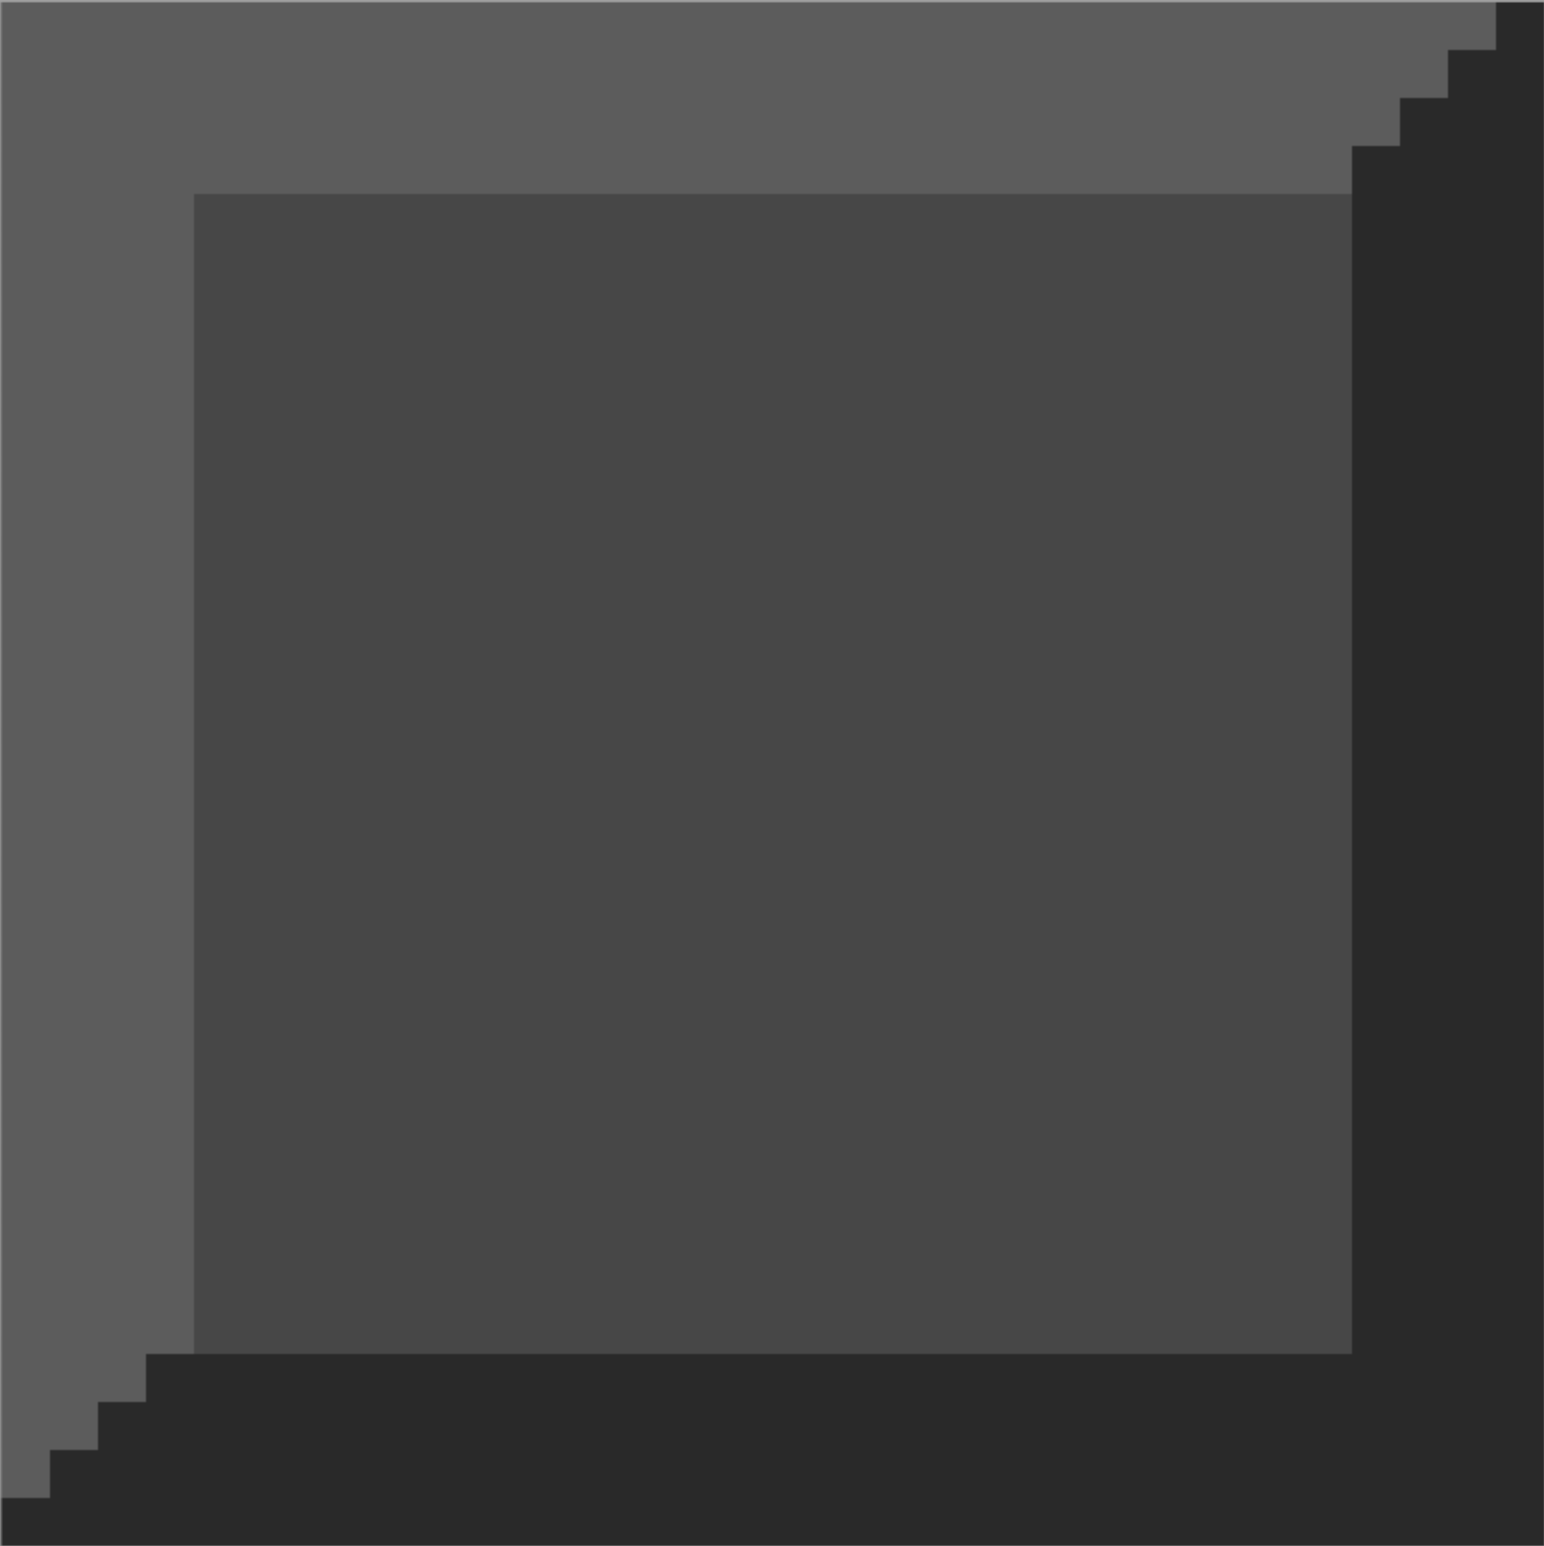
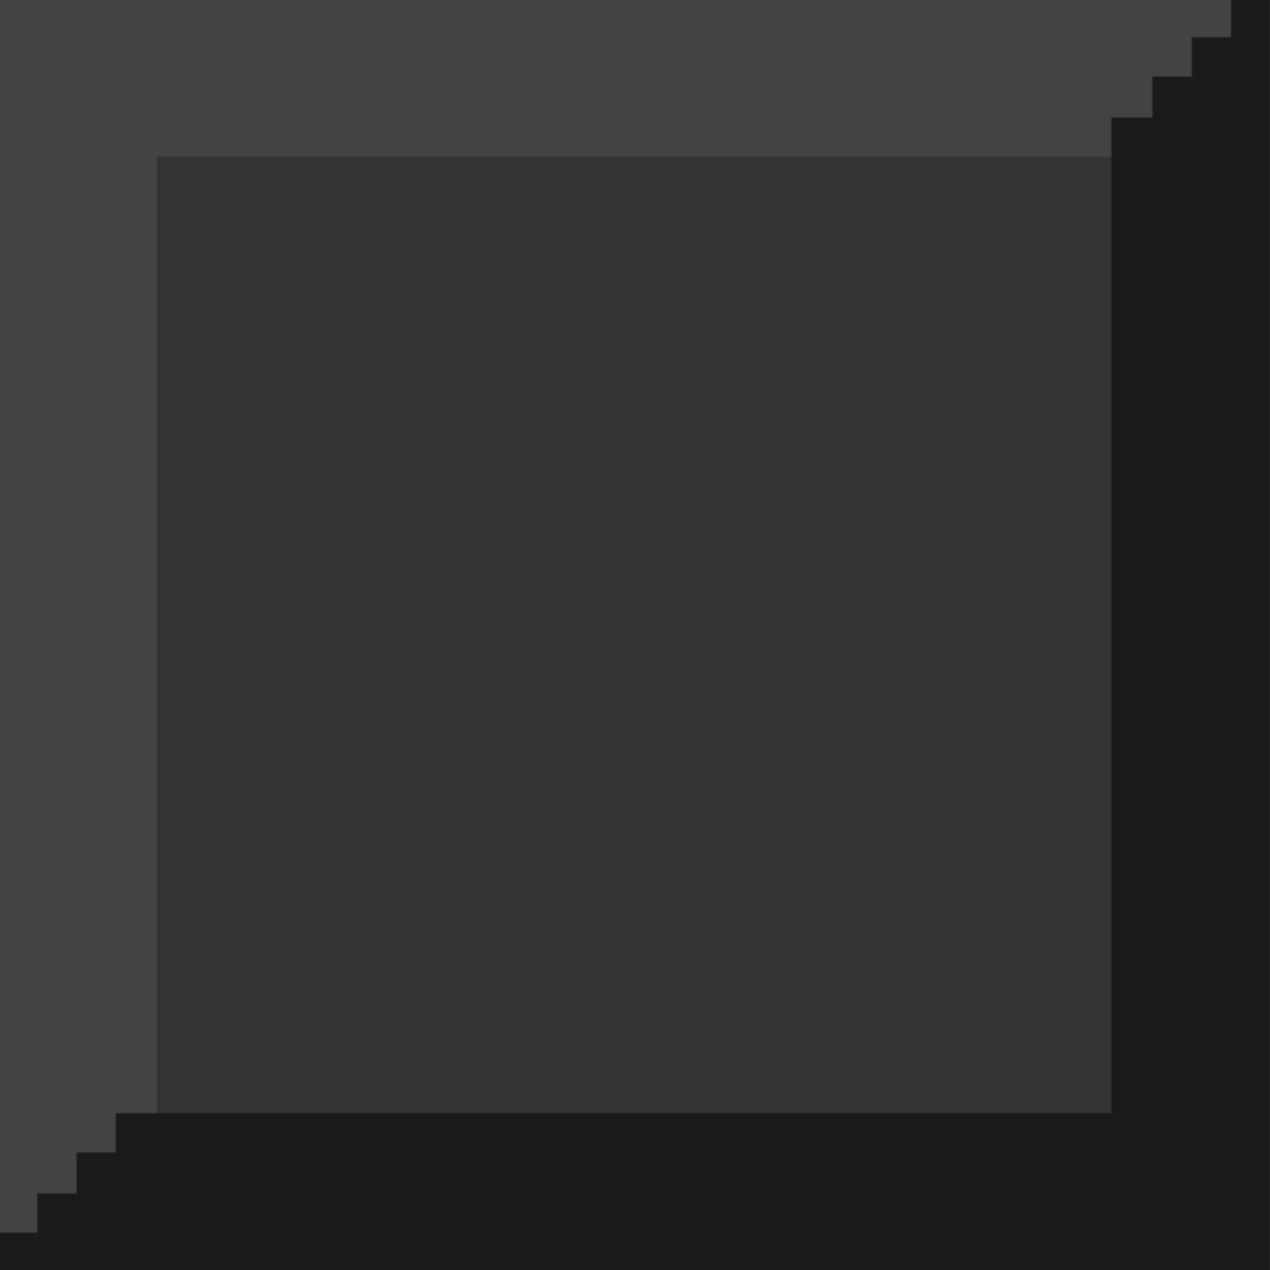
added some EXTREMELY buggy row clearing and fixed the remaining images

Changed region(s): [[0.0, 0.0, 0.9827, 0.9827]]

diff --git a/classes.py b/classes.py
@@ -9,6 +9,7 @@ class Player:
         self.score = 0
         self.blocks = []
         self.upNext = []
+        self.tiles = []
 
 class Text:
     def __init__(self, x, y, text, size, font, color):
@@ -110,7 +111,7 @@ class Block:
         keys = pygame.key.get_pressed()
         if self.aTick < 5:
             self.aTick += 1
-        if self.rTick < 5:
+        if self.rTick < 50:
             self.rTick += 1
 
         if keys[pygame.K_DOWN] and not self.top_collisions(tiles, player) and not self.stationary:
@@ -130,10 +131,12 @@ class Block:
                 self.x -= tileSize
                 self.aTick = 0
 
-        if keys[pygame.K_UP]:
-            if self.rTick % 5 == 0:
-                for block in self.blocks:
-                    block.rotate(self.x, self.y)
+        for event in pygame.event.get():
+            if event.type == pygame.KEYDOWN:
+                if event.key == pygame.K_UP and self.type != 'yellow':
+                    for block in self.blocks:
+                        block.rotate(self.x, self.y)
+                        self.rTick = 0
 
     def draw(self, screen):
         for block in self.blocks:
@@ -181,11 +184,14 @@ class Block:
         self.tick += 1
 
 class Tile:
-    def __init__(self, x, y, type):
+    def __init__(self, x, y, row, type):
+        self.row = row
         self.x = x
         self.y = y
         self.size = tileSize
         self.type = type
+        self.occupiedImage = Image(x, y, 'redTile.png')
+        self.occupied = False
 
         if type == 'bg':
             self.image = pygame.image.load('bgTile.png')
@@ -198,5 +204,24 @@ class Tile:
     def draw(self, screen):
         screen.blit(self.image, (self.x, self.y))
 
-    def update(self, screen):
+    def update(self, screen, blocks, tiles):
         self.draw(screen)
+        self.occupied = False
+        for block in blocks:
+            for image in block.blocks:
+                if image.x == self.x and image.y == self.y:
+                    self.occupied = True
+                    self.occupiedImage = image
+
+        for row in tiles:
+            numTilesOcupied = 0
+            for tile in row:
+                if tile.occupied:
+                    numTilesOcupied += 1
+            print(numTilesOcupied, len(row))
+            if numTilesOcupied == len(row) - 2:
+                print('cleared!')
+                self.occupiedImage.x = 62789
+
+
+

diff --git a/client.py b/client.py
@@ -8,16 +8,14 @@ win = pygame.display.set_mode((1000, 700))
 
 player = Player()
 
-tiles = []
-
 for j in range(22):
     row = []
     for i in range(18):
         if j == 0 or j == 21 or i == 0 or i == 17:
-            row.append(Tile(130+ tileSize*i, 40+ tileSize*j, 'wall'))
+            row.append(Tile(130+ tileSize*i, 40+ tileSize*j, j, 'wall'))
         else:
-            row.append(Tile(130 + tileSize * i, 40 + tileSize * j, 'bg'))
-    tiles.append(row)
+            row.append(Tile(130 + tileSize * i, 40 + tileSize * j, j, 'bg'))
+    player.tiles.append(row)
 
 test = Text(300, 20, 'This is text', 15, None, (255, 0, 0))
 
@@ -41,15 +39,15 @@ while running:
             block.y -= 90
         player.upNext.append(Block(800, 300-3*90, random.choice(blocks)))
     block.update(win)
-    block.move(block.x, block.y, tiles, player)
+    block.move(block.x, block.y, player.tiles, player)
     for event in pygame.event.get():
         if event.type == pygame.QUIT:
             running = False
 
     test.draw(win)
-    for row in tiles:
+    for row in player.tiles:
         for tile in row:
-            tile.update(win)
+            tile.update(win, player.blocks, player.tiles)
 
     for block in player.upNext:
         block.update(win)
